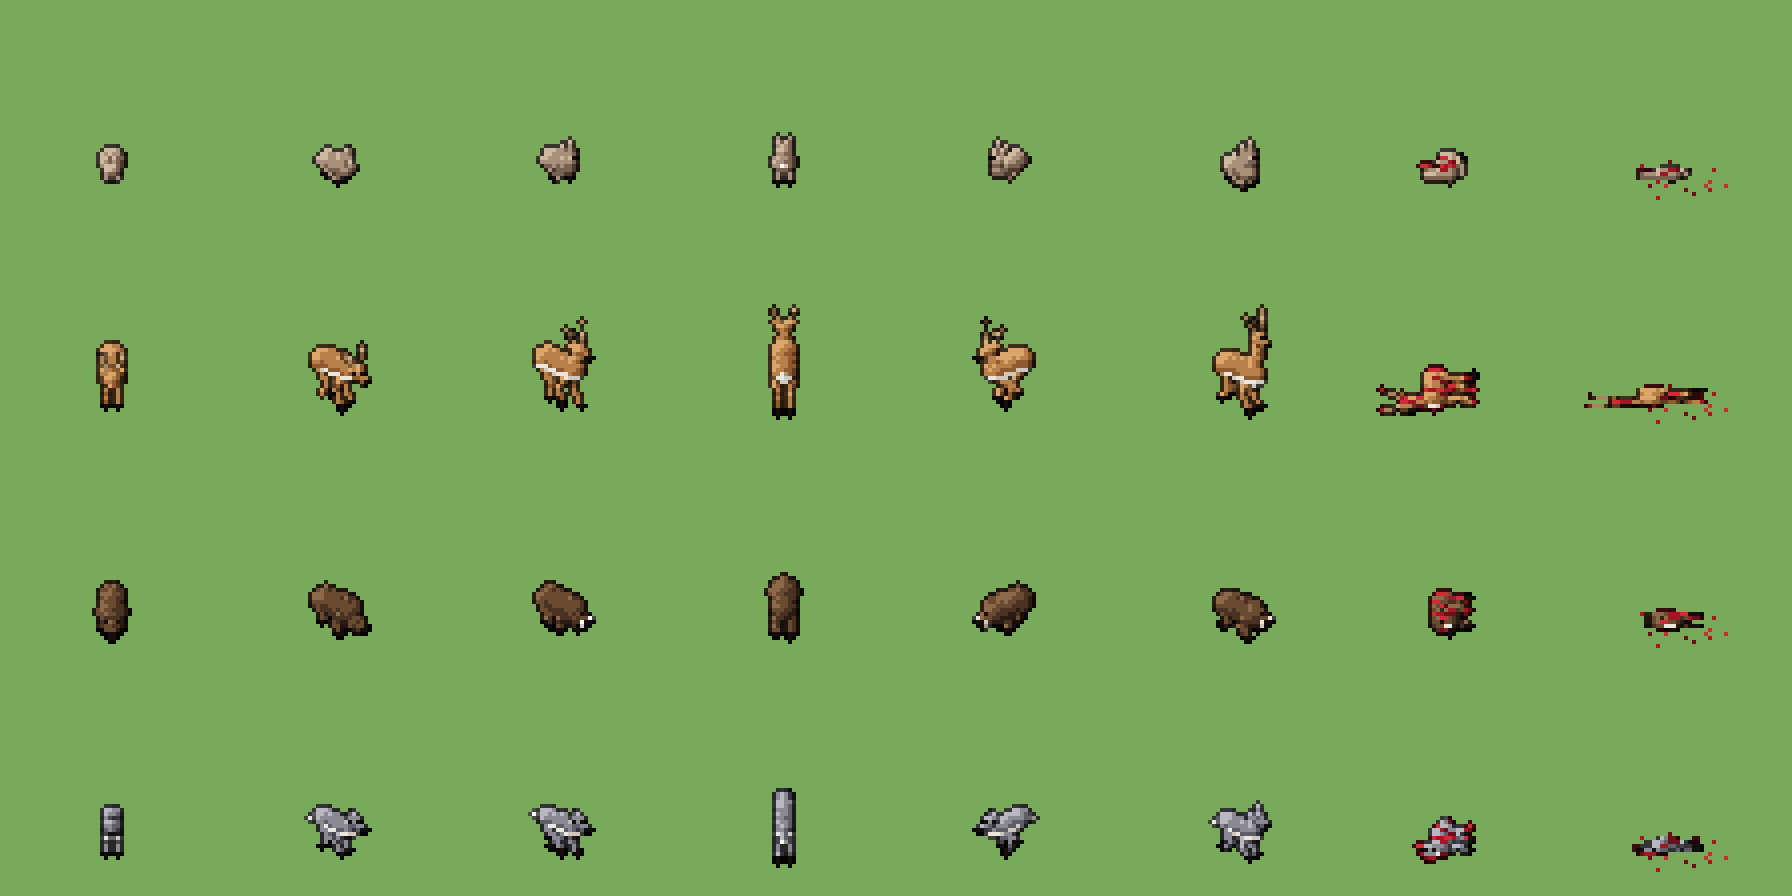
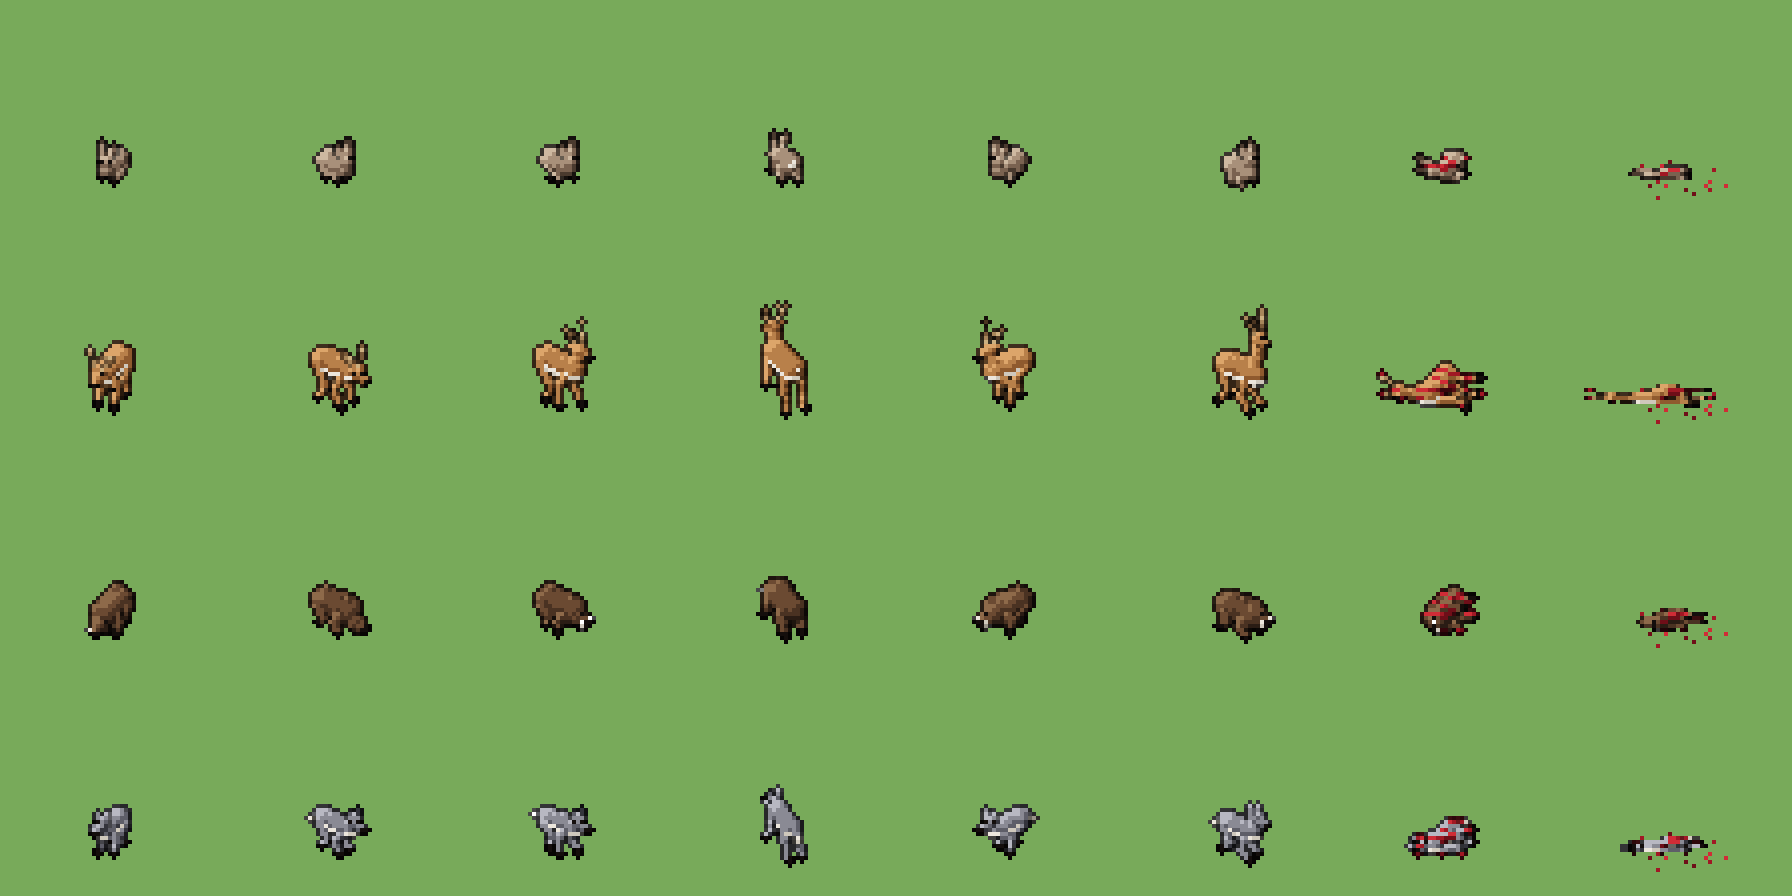
Faune lisible de face et de dos (trois-quarts, pattes écartées, oreilles), robes qui bougent et bras visibles chez la paysanne et l'ancien

diff --git a/js/beasts.js b/js/beasts.js
@@ -45,7 +45,9 @@ function pose(type, anim, t) {
   const k = Math.min(1, BEASTS[type].legLen / 7);
   const p = { legs: [[0, 0], [0, 0], [0, 0], [0, 0]], headDown: 0, bob: 0, lunge: 0, dead: anim === 'dead' || anim === 'crushed' };
   // ordre des pattes : avant gauche, avant droite, arrière gauche, arrière droite
-  if (anim === 'idle') { p.headDown = type === 'wolf' ? 0 : 0.6 + 0.4 * Math.max(0, s); p.bob = s * 0.15; } // le loup ne broute pas
+  if (anim === 'idle') { // le loup ne broute pas, le lapin garde la tête haute (oreilles visibles)
+    p.headDown = type === 'wolf' ? 0 : type === 'rabbit' ? 0.25 * Math.max(0, s) : 0.6 + 0.4 * Math.max(0, s); p.bob = s * 0.15;
+  }
   else if (anim === 'walk') {
     const leg = (o) => [Math.sin(ph + o) * 1.6 * k, Math.max(0, Math.cos(ph + o)) * k];
     p.legs = [leg(0), leg(Math.PI), leg(Math.PI), leg(0)];
@@ -71,7 +73,8 @@ export function beastParts(type, P) {
   const belly = (p) => (p.ny > 0.55 && type !== 'boar' && type !== 'rabbit' ? WHITE[Math.min(3, p.shade + 1)] : ridge ? ridge(p) : p.shade);
   parts.push({ a: rear, b: front, r1: B.rr, r2: B.br, ramp: R, group: 1, tex: belly });
   // pattes : épaule/hanche -> pied, genou en cinématique inverse
-  const joints = [[-B.br * 0.55, L / 2 - 0.6], [B.br * 0.55, L / 2 - 0.6], [-B.rr * 0.55, -L / 2 + 0.6], [B.rr * 0.55, -L / 2 + 0.6]];
+  // pattes bien écartées : vu de face ou de dos, l'animal doit garder une silhouette de quadrupède
+  const joints = [[-B.br * 0.75, L / 2 - 0.6], [B.br * 0.75, L / 2 - 0.6], [-B.rr * 0.75, -L / 2 + 0.6], [B.rr * 0.75, -L / 2 + 0.6]];
   joints.forEach(([x, f], i) => {
     const [df, lift] = P.legs[i];
     const top = [x, f + f0, H - 1];
@@ -93,8 +96,9 @@ export function beastParts(type, P) {
   // oreilles
   for (const sd of [-1, 1]) {
     const base = add(head, [sd * B.hr * 0.5, -0.3, B.hr * 0.7]);
-    if (B.ears === 'long') parts.push({ a: base, b: add(base, [sd * 0.3, -1, 2.4]), r1: 0.85, r2: 0.65, ramp: R, group: 8 });
-    else if (B.ears === 'pointy') parts.push({ a: base, b: add(base, [sd * 0.3, -0.2, 1.8]), r1: 0.7, r2: 0.2, ramp: R, group: 8 });
+    // oreilles de lapin : longues, dressées, bout sombre (sinon elles se fondent dans le dos)
+    if (B.ears === 'long') parts.push({ a: base, b: add(base, [sd * 0.6, -0.7, 3.2]), r1: 0.8, r2: 0.6, ramp: R, group: 8, tex: (p) => (p.t > 0.8 ? 0 : p.shade) });
+    else if (B.ears === 'pointy') parts.push({ a: base, b: add(base, [sd * 0.7, -0.2, 2.4]), r1: 0.9, r2: 0.25, ramp: R, group: 8 });
     else if (B.ears === 'deer') parts.push({ a: base, b: add(base, [sd * 1.6, -0.5, 0.6]), r1: 0.55, r2: 0.35, ramp: R, group: 8 });
     else parts.push({ a: base, r1: 0.7, ramp: R, group: 8 });
   }
@@ -114,7 +118,8 @@ export function beastParts(type, P) {
   else parts.push({ a: tb, b: add(tb, [0, -2.8, -2.2]), r1: 1, r2: 0.6, ramp: R, group: 10, tex: (p) => (p.t > 0.75 ? WHITE[p.shade] : p.shade) });
 
   // un petit animal : pas de lignes internes entre ses parties (à cette taille, ça fait des traits parasites)
-  if (B.scale && B.L < 6) for (const part of parts) part.group = 1;
+  // (sauf les oreilles : un trait les détache de la tête, c'est ce qui fait lire « lapin »)
+  if (B.scale && B.L < 6) for (const part of parts) if (part.group !== 8) part.group = 1;
   if (P.dead) {
     // couché sur le flanc, taché de sang
     for (const part of parts) {
@@ -127,9 +132,17 @@ export function beastParts(type, P) {
   return parts;
 }
 
+// Vu pile de face ou de dos, un quadrupède n'est qu'un trait (pattes alignées, museau vers la
+// caméra) : on le tourne d'environ 25° pour garder un trois-quarts lisible.
+function beastFacing(dir) {
+  if (dir % 4 !== 2) return dirFacing(dir);
+  const a = dir * Math.PI / 4 + (dir === 2 ? 0.45 : -0.45);
+  return [Math.cos(a), Math.sin(a)];
+}
+
 export function renderBeast(type, anim, t, dir) {
   const buf = renderModel(beastParts(type, pose(type, anim, t)), {
-    w: BEAST_W, h: BEAST_H, ox: BEAST_OX, oy: BEAST_OY, facing: dirFacing(dir), scale: BEASTS[type].scale,
+    w: BEAST_W, h: BEAST_H, ox: BEAST_OX, oy: BEAST_OY, facing: beastFacing(dir), scale: BEASTS[type].scale,
   });
   if (anim !== 'crushed') return buf;
   // écrasé : aplati et éclaboussé

diff --git a/js/people.js b/js/people.js
@@ -36,9 +36,9 @@ const BLOOD = ramp('#3e060c', '#6e0e18', '#a01824', '#d02c36');
 // Les habitants. `voice` = hauteur du cri (Hz).
 export const PEOPLE = {
   farmer: { kind: 'civ', skin: SKIN_A, hair: HAIR_BROWN, top: GREEN, legs: BROWN, hat: 'straw', voice: 230 },
-  woman: { kind: 'civ', skin: SKIN_A, hair: HAIR_BLOND, top: RED, legs: BROWN, dress: RED, apron: CREAM, scarf: CREAM, scale: 0.95, voice: 430 },
+  woman: { kind: 'civ', skin: SKIN_A, hair: HAIR_BLOND, top: CREAM, legs: BROWN, dress: RED, apron: CREAM, scarf: RED, scale: 0.95, voice: 430 },
   child: { kind: 'civ', skin: SKIN_A, hair: HAIR_RED, top: BLUE, legs: BROWN, scale: 0.68, head: 3.7, voice: 640 },
-  elder: { kind: 'civ', skin: SKIN_B, hair: HAIR_GREY, top: PURPLE, legs: PURPLE, dress: PURPLE, beard: HAIR_GREY, cane: true, scale: 0.94, bent: 1.6, voice: 180 },
+  elder: { kind: 'civ', skin: SKIN_B, hair: HAIR_GREY, top: BROWN, legs: PURPLE, dress: PURPLE, beard: HAIR_GREY, cane: true, scale: 0.94, bent: 1.6, voice: 180 },
   merchant: { kind: 'civ', skin: SKIN_B, hair: HAIR_BROWN, top: TEAL, legs: BROWN, apron: CREAM, beret: RED, beard: HAIR_BROWN, voice: 290 },
   knight: { kind: 'knight', skin: SKIN_A, hair: HAIR_BROWN, top: BLUE, legs: STEEL, scale: 1.05, voice: 200 },
   // Héros : chacun a un alter, que Brainless récupère en le dévorant.
@@ -121,6 +121,12 @@ export function personPose(D, anim, t) {
     p.bob = (1 - Math.abs(s)) * (run ? 1 : 0.6) - 0.3;
     p.twist = s * 0.12;
     p.lean = run ? 1.6 : 0.4;
+    p.hem = s; // la robe suit la jambe qui avance
+    if (D.dress && anim === 'walk') {
+      // en robe : mains bien dehors (sinon le cône les avale), pas plus marqué
+      p.hL = [-5, -s * 2.4, 9.4]; p.hR = [5, s * 2.4, 9.4];
+      p.bob = (1 - Math.abs(s)) * 0.9 - 0.45;
+    }
     if (anim === 'flee') {
       // il court en agitant les bras au-dessus de la tête
       p.hL = [-4.8 - c * 0.8, 1 + s, 20.5 + s * 1.5];
@@ -302,8 +308,10 @@ export function personParts(type, P) {
     for (const side of [-1, 1]) for (let i = 0; i < 3; i++) parts.push({ a: U([side * (3.2 + i * 0.6) * bk, -0.8 + i * 0.4, 18.6 + i * 0.5]), r1: 0.9, ramp: IRON, group: 2 + (side > 0 ? 1 : 0) });
   }
   if (D.dress) {
-    // robe : un cône du bassin jusqu'au sol
-    parts.push({ a: U([0, 0, 12.5]), b: [0, 0.3 + lean * 0.3, 1.6], r1: 3, r2: 4.4, ramp: D.dress, group: 1,
+    // robe : un cône du bassin jusqu'aux chevilles (les chaussures dépassent à chaque pas),
+    // l'ourlet balance avec la marche
+    const hem = P.hem || 0;
+    parts.push({ a: U([0, 0, 12.5]), b: [hem * 0.7, 0.3 + lean * 0.3 + Math.abs(hem) * 0.5, 3.4 + P.bob * 0.5], r1: 3, r2: 4, ramp: D.dress, group: 1,
       tex: (p) => (D.apron && front(p, 0.45) && Math.abs(p.ex) < p.r * 0.45 && p.t < 0.85 ? D.apron[Math.min(3, p.shade + 1)] : p.shade) });
   }
   if (knight) {

diff --git a/sw.js b/sw.js
@@ -1,6 +1,6 @@
 // Cache hors-ligne : le jeu marche même sans réseau une fois ouvert.
 // Change VERSION à chaque mise à jour pour forcer le rafraîchissement.
-const VERSION = 'brainless-v18';
+const VERSION = 'brainless-v19';
 const FILES = [
   './', './index.html', './manifest.webmanifest',
   './js/main.js', './js/world.js', './js/noise.js', './js/raster.js', './js/nomu.js', './js/sprites.js', './js/font.js', './js/audio.js', './js/pad.js', './js/buildings.js', './js/people.js', './js/saves.js', './js/menu.js', './js/beasts.js',

diff --git a/CLAUDE.md b/CLAUDE.md
@@ -186,6 +186,8 @@ rouges sont **peu nombreuses mais épaisses** (épaule, dos, un avant-bras).
 
 - Même moteur que Brainless (capsules + sphères, `renderModel`), environ 27 px de haut (enfant
   ~19 px), 64x62, origine (32, 50). Visage = partie avant de la tête (`dot(n, fc)`), cheveux au-dessus.
+  Robes (paysanne, ancien) : le cône s'arrête aux chevilles et son ourlet suit le pas (`hem`),
+  les mains passent dehors, et le haut est d'une autre couleur que la robe, sinon les bras s'y fondent.
 - Villageois : paysan (chapeau de paille), paysanne (robe, tablier, foulard), enfant, ancien
   (barbe, canne, dos voûté), marchand (béret, tablier). Anims : `idle walk flee wave ko dead crushed`.
 - Chevalier : armure `#353b48 #626b7c #9aa3b4 #dfe5ee`, tabard bleu à croix dorée, plumet rouge,
@@ -233,7 +235,9 @@ rouges sont **peu nombreuses mais épaisses** (épaule, dos, un avant-bras).
 
 ## 8. Faune et météo
 
-- **Faune** (`js/beasts.js`) : quadrupèdes en capsules, 56x56, origine (28, 44). Lapin (fuit en
+- **Faune** (`js/beasts.js`) : quadrupèdes en capsules, 56x56, origine (28, 44). Vus pile de face ou de
+  dos (directions 2 et 6), on les tourne de ~25° (`beastFacing`) : sinon un quadrupède n'est
+  qu'un trait de 4 px. Pattes écartées, oreilles assez grandes pour dépasser de la tête. Lapin (fuit en
   zigzag), cerf (bois, fuit vite), sanglier (défenses, charge si on l'approche ou le frappe), loup
   (meute de 3, chasse la nuit, fuit blessé). Ils apparaissent hors écran selon le biome et
   repartent quand Brainless s'éloigne ; quantité réglée par le paramètre FAUNE.
@@ -304,6 +308,7 @@ rouges sont **peu nombreuses mais épaisses** (épaule, dos, un avant-bras).
    - `node tools/preview.mjs people /tmp/x.png` (habitants à côté de Brainless)
    - `node tools/preview.mjs people-sheet /tmp/x.png knight attack` (une anim x 8 directions)
    - `node tools/preview.mjs beasts /tmp/x.png` (la faune)
+   - `node tools/preview.mjs beast-sheet /tmp/x.png wolf` (une espèce x 8 directions)
 
    Puis ouvrir le PNG avec Read et comparer aux planches `docs/ref-*.png`.
 5. Brancher le gameplay (`OBJ_INFO`, génération, sons, particules) et tester en jeu.
